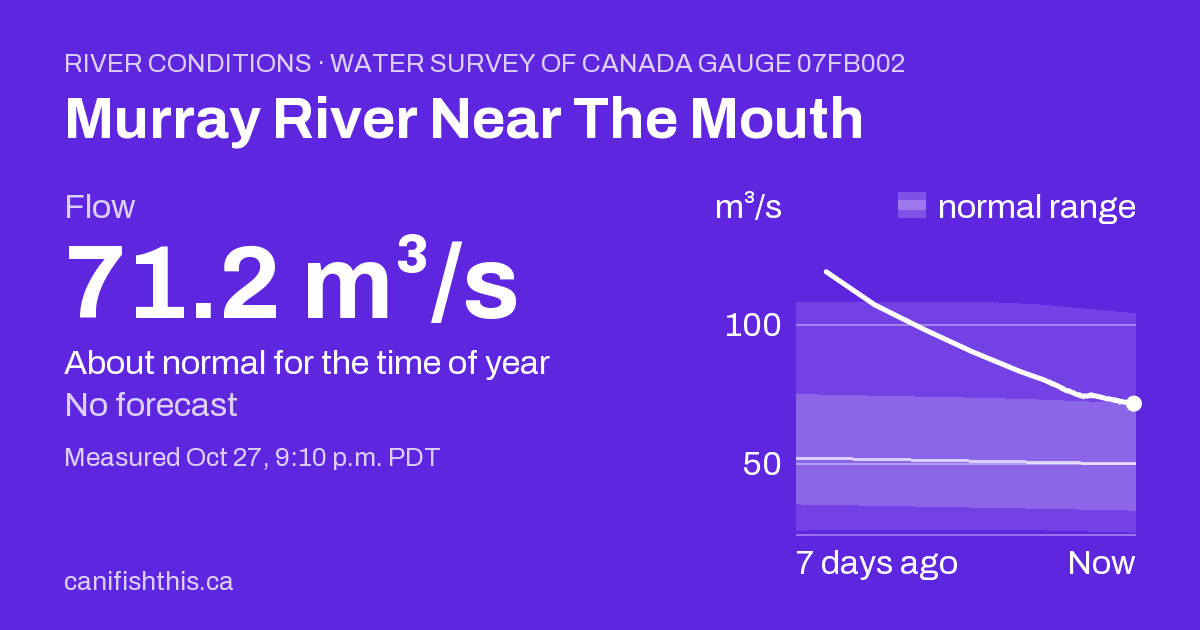
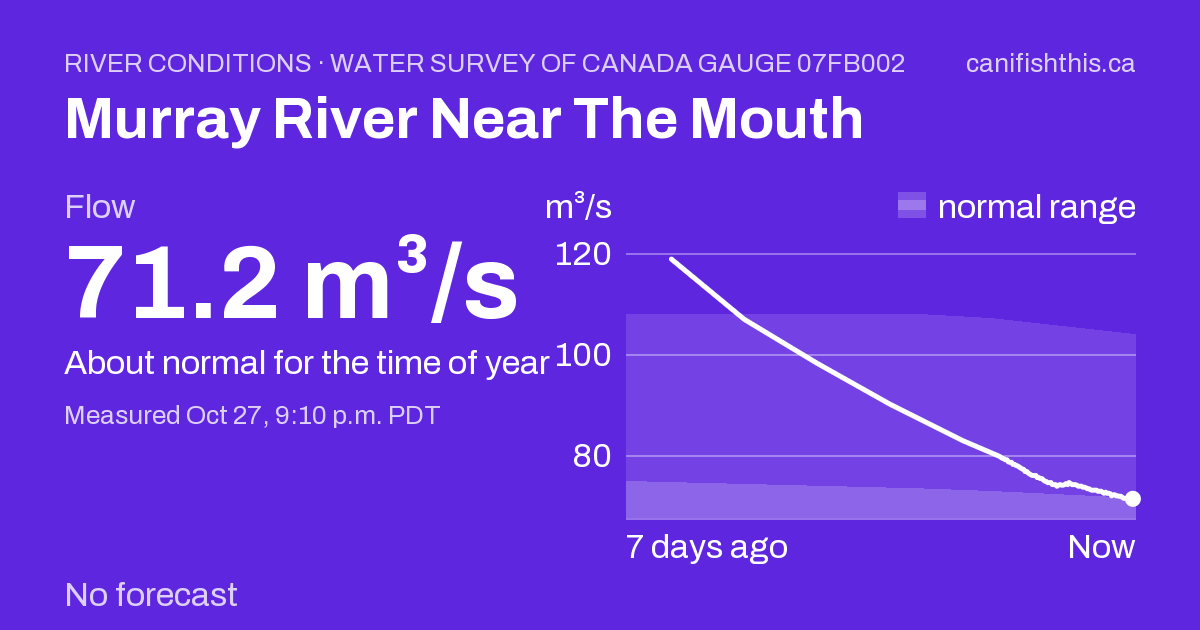
T511: forecast described by shape (brief spike, sustained, easing, receding), scale to the readings, bigger plot

diff --git a/app/workers/feeds/src/gauges/card/card.ts b/app/workers/feeds/src/gauges/card/card.ts
@@ -82,17 +82,26 @@ export interface CardModel {
 export type Bands = Record<string, Record<string, Array<number | null>> | undefined>;
 
 export interface Outlook {
-  kind: "rising" | "falling" | "steady";
-  /** the figure said: the extreme the forecast reaches (rising / falling) or its mean (steady) */
+  /** steady | rising / falling (a sustained move) | spike / dip (a brief one that returns) | receding (falling after a recent peak) */
+  kind: "steady" | "rising" | "falling" | "spike" | "dip" | "receding";
+  /** the figure said: the extreme the forecast reaches (the mean for steady) */
   value: number;
   /** when the extreme is (epoch ms); null for steady */
   at: number | null;
-  /** "Rising to 31 m³/s by Wed" */
+  /** where the run ends, said for a spike / dip ("then back near 12") */
+  end: number | null;
+  /** "Brief rise to 49 m³/s on Nov 3, then back to 12" */
   text: string;
 }
 
-/** the forecast moves the reading by at least this much (of the reading) before the card says rising / falling */
+/** the forecast moves the reading by at least this much (of the reading) before the card says anything but steady */
 export const STEADY_WITHIN = 0.1;
+/** a rise or dip that has come back to within this share of its own height by the run's end is "brief" (it did not last) */
+export const RETURNS_WITHIN = 0.25;
+/** … and it is brief only if it stood above (below) its own half-height for no more than this long */
+export const BRIEF_MS = 2 * DAY;
+/** a reading this far under the past week's peak is on the way down from it (receding) */
+export const PEAK_BEFORE = 1.3;
 const weekday = new Intl.DateTimeFormat("en-CA", { timeZone: ZONE, weekday: "short" });
 const monthDay = new Intl.DateTimeFormat("en-CA", { timeZone: ZONE, month: "short", day: "numeric" });
 /** "Wed" within six days, "Nov 14" beyond (a weekday alone would be ambiguous in a 10-day run); "today" the same Pacific day */
@@ -100,25 +109,50 @@ export function byWhen(t: number, now: number): string {
   if (dayOf(t) === dayOf(now)) return "today";
   return t - now < 6 * DAY ? weekday.format(new Date(t)) : monthDay.format(new Date(t));
 }
+/** two significant figures: "49.3" -> "49", "172" -> "170", "2.43" -> "2.4" (a card does not claim more) */
+export const about = (v: number): string => String(Number(v.toPrecision(2)));
 
 /**
- * THE FORECAST IN WORDS, from the points the chart draws (the same series: nothing re-derived from another source).
- * The reading `v0` against the forecast's highest and lowest point: both within STEADY_WITHIN of v0 is "steady around"
- * the forecast's mean; otherwise the larger move says it, as "rising to <peak> by <day>" or "falling to <low> by <day>".
+ * THE FORECAST IN WORDS, from the points the chart draws (the same series: nothing re-derived from another source), by its SHAPE:
+ *   steady     every point within STEADY_WITHIN of the reading: "Steady around 100 m³/s"
+ *   spike/dip  the larger move came back (the run ends within RETURNS_WITHIN of the reading) and stood past its half-height
+ *              for BRIEF_MS or less: "Brief rise to 49 m³/s on Nov 3, then back to 12"
+ *   rising     a rise that lasts: "Rising to 30 m³/s by Wed" (", then easing to 22" when it comes part-way back)
+ *   falling    a fall that lasts: "Falling to 41 m³/s by Fri"; with `weekMax` (the past week's peak) well above the reading,
+ *              "Dropping after a recent peak, to 41 m³/s by Fri"
+ * A longer excursion that returns says "Rise to 49 m³/s around Nov 3, then back to 12".
  */
-export function outlookOf(v0: number, points: readonly (readonly [number, number])[], unit: string, now: number): Outlook | null {
+export function outlookOf(v0: number, points: readonly (readonly [number, number])[], unit: string, now: number, weekMax?: number | null): Outlook | null {
   if (!points.length || !Number.isFinite(v0)) return null;
   let hi = points[0]!, lo = points[0]!, sum = 0;
   for (const p of points) { if (p[1] > hi[1]) hi = p; if (p[1] < lo[1]) lo = p; sum += p[1]; }
+  const end = points[points.length - 1]![1];
   const base = Math.max(Math.abs(v0), 1e-9);
   const up = (hi[1] - v0) / base, down = (v0 - lo[1]) / base;
+  const u = (v: number) => `${about(v)} ${unit}`;
   if (up < STEADY_WITHIN && down < STEADY_WITHIN) {
     const value = sum / points.length;
-    return { kind: "steady", value, at: null, text: `Steady around ${figure(value)} ${unit}` };
+    return { kind: "steady", value, at: null, end: null, text: `Steady around ${u(value)}` };
   }
-  return up >= down
-    ? { kind: "rising", value: hi[1], at: hi[0], text: `Rising to ${figure(hi[1])} ${unit} by ${byWhen(hi[0], now)}` }
-    : { kind: "falling", value: lo[1], at: lo[0], text: `Falling to ${figure(lo[1])} ${unit} by ${byWhen(lo[0], now)}` };
+  const rise = up >= down, ext = rise ? hi : lo, h = Math.abs(ext[1] - v0);
+  // how long the run stood past its own half-height
+  const half = v0 + (ext[1] - v0) / 2, past = points.filter((p) => (rise ? p[1] >= half : p[1] <= half));
+  const width = past[past.length - 1]![0] - past[0]![0];
+  const returned = Math.abs(end - v0) <= RETURNS_WITHIN * h || (rise ? end < v0 : end > v0);
+  const when = byWhen(ext[0], now);
+  if (returned) {
+    const brief = width <= BRIEF_MS;
+    return rise
+      ? { kind: "spike", value: ext[1], at: ext[0], end, text: `${brief ? "Brief rise to" : "Rise to"} ${u(ext[1])} ${brief ? "on" : "around"} ${when}, then back to ${about(end)}` }
+      : { kind: "dip", value: ext[1], at: ext[0], end, text: `${brief ? "Brief dip to" : "Dip to"} ${u(ext[1])} ${brief ? "on" : "around"} ${when}, then back to ${about(end)}` };
+  }
+  if (rise) {
+    const easing = (hi[1] - end) > 0.4 * (hi[1] - v0);
+    return { kind: "rising", value: hi[1], at: hi[0], end: easing ? end : null, text: `Rising to ${u(hi[1])} by ${when}${easing ? `, then easing to ${about(end)}` : ""}` };
+  }
+  if (weekMax != null && weekMax >= PEAK_BEFORE * v0)
+    return { kind: "receding", value: lo[1], at: lo[0], end: null, text: `Dropping after a recent peak, to ${u(lo[1])} by ${when}` };
+  return { kind: "falling", value: lo[1], at: lo[0], end: null, text: `Falling to ${u(lo[1])} by ${when}` };
 }
 
 /** the normal range a day from `t0` to `t1` from the climatology (the same `bandFor` that words the standing); null when none */
@@ -196,7 +230,7 @@ export function cardModel(station: string, name: string, f: CardStation | null, 
     at: Number.isFinite(t) ? pacific(t) : null,
     stale: !Number.isFinite(t) || now - t > STALE_AFTER.feed.ms,
     week, forecast, forecastOld,
-    outlook: forecast && v !== null && unit ? outlookOf(v, forecast.points, unit, now) : null,
+    outlook: forecast && v !== null && unit ? outlookOf(v, forecast.points, unit, now, week.length ? Math.max(...week.map((w) => w[1])) : null) : null,
     normal: parameter && clim ? normalRange(clim[parameter], now - WEEK, Math.max(now, last)) : null,
   };
 }
@@ -221,23 +255,21 @@ export async function drawCard(m: CardModel): Promise<{ png: Uint8Array; missing
   const ground = hex(CARD_GROUND), ink = hex(CARD_INK), soft = mix(ground, ink, 0.78), faint = mix(ground, ink, 0.35);
   const cv = new Canvas(CARD_W, CARD_H, ground);
   const L = 64, R = CARD_W - 64;
-  await text(cv, "small", fit("small", `RIVER CONDITIONS · WATER SURVEY OF CANADA GAUGE ${m.station}`, R - L), L, 72, soft);
+  const brand = "canifishthis.ca", bw = measure("small", brand);
+  await text(cv, "small", fit("small", `RIVER CONDITIONS · WATER SURVEY OF CANADA GAUGE ${m.station}`, R - L - bw - 24), L, 72, soft);
+  await text(cv, "small", brand, R - bw, 72, soft);
   const title = wrap("title", m.name, R - L, 2);
   for (const [i, l] of title.entries()) await text(cv, "title", l, L, 138 + i * 64, ink);
   const top = 138 + (title.length - 1) * 64 + 40;
   // left: the reading
-  const colW = 540;
+  const colW = 490;
   if (m.value) {
     await text(cv, "body", m.parameter === "level" ? "Water level" : "Flow", L, top + 40, soft);
     await text(cv, "big", fit("big", m.value, colW), L, top + 140, ink);
     let y = top + 196;
     const st = wrap("body", m.standing ?? "", colW, 2);
     for (const [i, l] of st.entries()) await text(cv, "body", l, L, y + i * 42, ink);
-    y += st.length * 42;
-    // the forecast in words (T511); a gauge with no current run says so plainly
-    const fc = wrap("body", m.outlook ? `Forecast: ${m.outlook.text.charAt(0).toLowerCase()}${m.outlook.text.slice(1)}` : m.forecastOld ? "Forecast out of date" : "No forecast", 590, 2);
-    for (const [i, l] of fc.entries()) await text(cv, "body", l, L, y + i * 42, m.outlook ? ink : soft);
-    y += fc.length * 42 + 8;
+    y += st.length * 42 + 8;
     const when = wrap("small", m.stale ? `No new reading since ${m.at ?? "an unknown time"}` : `Measured ${m.at}`, colW, 2);
     for (const [i, l] of when.entries()) await text(cv, "small", l, L, y + i * 34, soft);
   } else {
@@ -246,17 +278,16 @@ export async function drawCard(m: CardModel): Promise<{ png: Uint8Array; missing
   }
   // right: the last 7 days, the forecast's dashes, and the normal range for each day behind them. Text here is the body face
   // in full ink: a card is shown a third of this size in Messages / Facebook (T511).
-  const GUT = 782, cx0 = GUT + 14, cx1 = R, cy0 = top + 70, cy1 = CARD_H - 96;
+  const GUT = 612, cx0 = GUT + 14, cx1 = R, cy0 = top + 62, cy1 = CARD_H - 112;
   const now = m.now;
   const t0 = now - WEEK, t1 = m.forecast ? Math.max(now, m.forecast.points[m.forecast.points.length - 1]![0]) : now;
   const vals = [...m.week.map((p) => p[1]), ...(m.forecast?.points.map((p) => p[1]) ?? [])];
   const nr = m.normal;
   if (vals.length >= 2) {
-    // the scale holds the readings and the middle half of the normal range; the outer band is cut at the chart's edge
-    const keep = nr ? [...vals, ...nr.flatMap((n) => [n[2], n[4]])] : vals;
-    let lo = Math.min(...keep), hi = Math.max(...keep);
+    // the scale is the readings and the forecast alone, so the line uses the plot's height; the normal range is cut at its edges
+    let lo = Math.min(...vals), hi = Math.max(...vals);
     if (hi - lo < 1e-9) { lo -= 1; hi += 1; }
-    const pad = (hi - lo) * 0.1; lo -= pad; hi += pad;
+    const pad = (hi - lo) * 0.08; lo -= pad; hi += pad;
     const x = (t: number) => cx0 + ((t - t0) / (t1 - t0 || 1)) * (cx1 - cx0);
     const y = (v: number) => cy1 - ((v - lo) / (hi - lo)) * (cy1 - cy0);
     // a few ticks only: two or three round figures, each on a faint line, labelled in full ink
@@ -299,7 +330,9 @@ export async function drawCard(m: CardModel): Promise<{ png: Uint8Array; missing
   await text(cv, "body", "7 days ago", cx0, below, ink);
   const right = m.forecast ? "Forecast" : "Now";
   await text(cv, "body", right, cx1 - measure("body", right), below, ink);
-  await text(cv, "small", "canifishthis.ca", L, CARD_H - 40, soft);
+  // the forecast in one line across the card's foot (its words are outlookOf's); none / out of date said plainly
+  const fw = m.outlook ? `Forecast: ${m.outlook.text.charAt(0).toLowerCase()}${m.outlook.text.slice(1)}` : m.forecastOld ? "Forecast out of date" : "No forecast";
+  if (m.value) await text(cv, "body", fit("body", fw, R - L), L, CARD_H - 24, m.outlook ? ink : soft);
   return { png: await png(cv), missing: [...cv.missing] };
 }
 

diff --git a/app/workers/feeds/test/cards.test.ts b/app/workers/feeds/test/cards.test.ts
@@ -7,7 +7,7 @@ import { fileURLToPath } from "node:url";
 import { describe, expect, it } from "vitest";
 import { PNG } from "pngjs";
 import { chartFigure, plainStanding, standing } from "../../../packages/core/src/index";
-import { byWhen, CARD_GROUND, CARD_H, CARD_INK, CARD_W, CARD_STATE, cardEvents, cardFacts, cardModel, cardSig, drawCard, figure, niceTicks, normalRange, outlookOf, runCards,
+import { about, byWhen, CARD_GROUND, CARD_H, CARD_INK, CARD_W, CARD_STATE, cardEvents, cardFacts, cardModel, cardSig, drawCard, figure, niceTicks, normalRange, outlookOf, runCards,
          type CardBucket, type CardStation } from "../src/gauges/card/card";
 import { FACES, FONT_SHA256 } from "../src/gauges/card/glyphs.generated";
 import { bandFor, percentileOf } from "../src/gauges/publish";
@@ -103,12 +103,12 @@ const rising = (day: number, ...mid: number[]): [number, number][] => mid.map((v
 describe("the forecast in words (outlookOf)", () => {
   it("rising: the peak and the day it falls on, in the gauge's unit", () => {
     const o = outlookOf(24.6, rising(0, 24, 27, 31.04, 29), "m³/s", NOW)!;
-    expect([o.kind, o.value, o.text]).toEqual(["rising", 31.04, `Rising to 31 m³/s by ${byWhen(NOW + 2 * DAYMS, NOW)}`]);
+    expect([o.kind, o.value, o.text]).toEqual(["rising", 31.04, `Rising to 31 m³/s by ${byWhen(NOW + 2 * DAYMS, NOW)}`]);   // 2 significant figures
     expect(o.text).toMatch(/^Rising to 31 m³\/s by (Mon|Tue|Wed|Thu|Fri|Sat|Sun)$/);
   });
   it("falling: the low and its day", () => {
     const o = outlookOf(80, rising(0, 78, 60, 41.2, 45), "m³/s", NOW)!;
-    expect([o.kind, o.value, o.text.startsWith("Falling to 41.2 m³/s by ")]).toEqual(["falling", 41.2, true]);
+    expect([o.kind, o.value, o.text.startsWith("Falling to 41 m³/s by ")]).toEqual(["falling", 41.2, true]);
   });
   it("steady: every point within 10 % of the reading is 'steady around' the forecast's mean", () => {
     const o = outlookOf(100, rising(0, 96, 104, 99, 101), "m³/s", NOW)!;
@@ -116,7 +116,35 @@ describe("the forecast in words (outlookOf)", () => {
   });
   it("the larger move says it when the run goes up and back down", () => {
     expect(outlookOf(100, rising(0, 130, 100, 40), "m³/s", NOW)!.kind).toBe("falling");
-    expect(outlookOf(100, rising(0, 160, 100, 70), "m³/s", NOW)!.kind).toBe("rising");
+    expect(outlookOf(100, rising(0, 160, 130, 125), "m³/s", NOW)!.kind).toBe("rising");
+  });
+  // the Vedder card (owner 2026-11-08): a one-day spike that falls back to the old level is not "rising to 49"
+  const hourly = (f: (h: number) => number, hours = 240): [number, number][] => Array.from({ length: hours }, (_, h) => [NOW + h * H, f(h)]);
+  it("a brief spike that falls back: said as brief, with where it ends", () => {
+    const o = outlookOf(14.7, hourly((h) => (h >= 150 && h <= 168 ? 12 + 37 * Math.sin(((h - 150) / 18) * Math.PI) : 12.3)), "m³/s", NOW)!;
+    expect(o.kind).toBe("spike");
+    expect(o.text).toBe(`Brief rise to 49 m³/s on ${byWhen(o.at!, NOW)}, then back to 12`);
+    expect(o.text.length).toBeLessThan(60);   // one line at card size
+  });
+  it("a long excursion that returns is not 'brief'", () => {
+    const o = outlookOf(10, hourly((h) => (h >= 24 && h <= 150 ? 30 : 10)), "m³/s", NOW)!;
+    expect([o.kind, o.text.startsWith("Rise to 30 m³/s around "), o.text.endsWith(", then back to 10")]).toEqual(["spike", true, true]);
+  });
+  it("a brief dip that comes back, and a fall that stays", () => {
+    const d = outlookOf(50, hourly((h) => (h >= 60 && h <= 70 ? 20 : 50)), "m³/s", NOW)!;
+    expect([d.kind, d.text.startsWith("Brief dip to 20 m³/s on "), d.text.endsWith(", then back to 50")]).toEqual(["dip", true, true]);
+    const f = outlookOf(50, hourly((h) => Math.max(20, 50 - h / 4)), "m³/s", NOW)!;
+    expect([f.kind, f.text.startsWith("Falling to 20 m³/s by ")]).toEqual(["falling", true]);
+  });
+  it("a rise that part-way eases, and a fall after a recent peak", () => {
+    const e = outlookOf(10, hourly((h) => (h < 72 ? 10 + h / 3 : 34 - (h - 72) / 12)), "m³/s", NOW)!;
+    expect([e.kind, /^Rising to 34 m³\/s by .+, then easing to \d+$/.test(e.text)]).toEqual(["rising", true]);
+    const r = outlookOf(60, rising(0, 55, 45, 41.2), "m³/s", NOW, 95)!;
+    expect([r.kind, r.text.startsWith("Dropping after a recent peak, to 41 m³/s by ")]).toEqual(["receding", true]);
+    expect(outlookOf(60, rising(0, 55, 45, 41.2), "m³/s", NOW, 62)!.kind).toBe("falling");
+  });
+  it("two significant figures, whatever the size", () => {
+    expect([49.3, 172, 1060, 2.43, 0.0432, 12.8, 100].map(about)).toEqual(["49", "170", "1100", "2.4", "0.043", "13", "100"]);
   });
   it("no points: no words (the card says 'No forecast' itself)", () => {
     expect(outlookOf(10, [], "m³/s", NOW)).toBeNull();

diff --git a/handoff/PLAN/app-integration/tickets/T511-share-card-forecast-axis-normal-range.md b/handoff/PLAN/app-integration/tickets/T511-share-card-forecast-axis-normal-range.md
@@ -37,3 +37,14 @@ card facts, no-clim run draws + digest line. Feeds worker suite 251 pass.
 
 Shots `shots/T511-{vedder,no-forecast,high-for-time-of-year}-{before,after,after-third}.png` (Vedder Crossing 08MH001,
 Murray River 07FB002 with no forecast, Dickebusch Creek 07FB004 very high for the time of year; seed of 2026-10-28).
+
+## Follow-up (owner 2026-11-08): honest shapes, scale to the line, bigger plot
+- **Forecast by shape** (`outlookOf`): steady; brief spike/dip that returns ("Brief rise to 49 m³/s on Nov 3, then back to
+  12"); longer excursion that returns ("Rise to … around …, then back to …"); sustained rise ("Rising to 30 m³/s by Wed",
+  ", then easing to N" when it comes part-way back); sustained fall; fall after a recent week peak ("Dropping after a recent
+  peak, to … by …"); none / out of date said plainly. Figures to 2 significant figures (`about`). One line across the card's
+  foot ("Forecast: …", fitted to 1072 px). Tests for every shape.
+- **Scale**: the y-scale is the readings + forecast only (8 % headroom); the normal range is cut at the plot's edges, so
+  the line uses the plot's height (Vedder: 12–49 on the axis, not 0–80).
+- **Bigger plot**: 512 px wide (was 354), tick labels beside it; brand moved to the kicker row; left column 490 px; forecast
+  sentence in its own foot row. Shots overwritten, same three gauges (+ 1/3 size).
